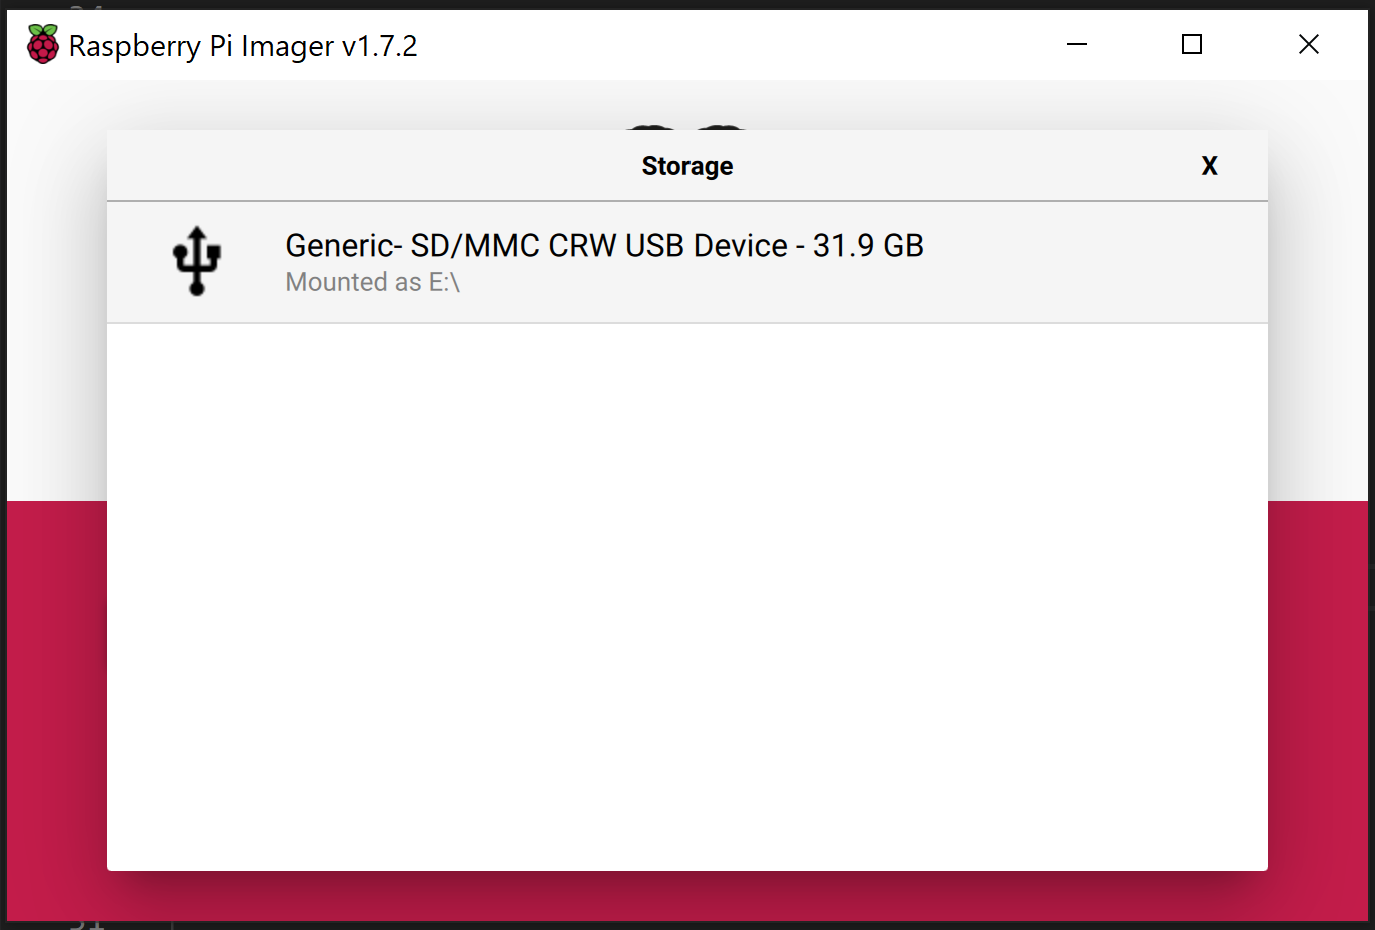
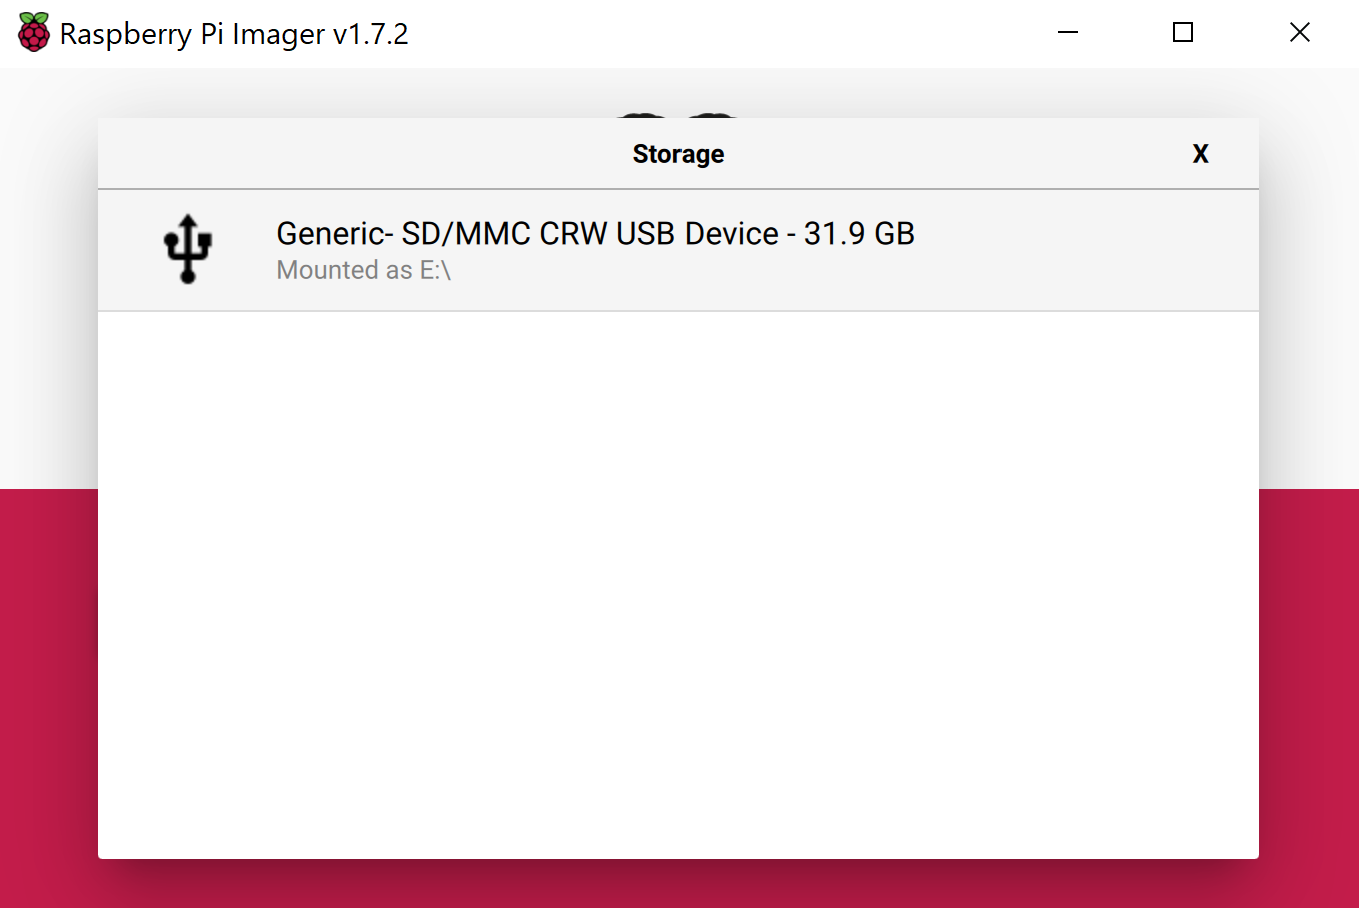
Fix image width

Changed region(s): [[0.0618, 0.1233, 0.9272, 0.9559], [0.0, 0.0, 1.0, 1.0]]

diff --git a/readme.md b/readme.md
@@ -21,8 +21,7 @@ Speech is captured via a USB microphone and run through a .NET framework which c
 4. [Pair of Keyboard and Mouse](https://www.amazon.eg/-/en/HP-CS700-Wireless-Keyboard-Mouse/dp/B07M82KFVB)
    : A basic keyboard and mouse for using as input devices on a Raspberry Pi.
    
-## Download and Install RaspberryPi 4 OS
-
+## Download RaspberryPi 4 OS
 
 1. On your desktop computer, download and install [Raspberry Pi Imager](https://www.raspberrypi.com/software/).
    
@@ -30,7 +29,7 @@ Speech is captured via a USB microphone and run through a .NET framework which c
 
 1. Run Raspberry Pi Imager. The home screen will appear.
 
-    ![RPiIMain.png](assets/RPiIMain.png)
+    <img src="assets/RPiIMain.png" width="400">
 
 2. Select **'CHOOSE STORAGE'**.
 
@@ -38,33 +37,33 @@ Speech is captured via a USB microphone and run through a .NET framework which c
   
 4. Select the connected microSD card as your storage device.
 
-    ![rpisd.png](assets/rpisd.png)
+    <img src="assets/rpisd.png" width="400">
     
 5. On the home screen, select **'CHOOSE OS'**.
    
-    ![rpchooseos.png](assets/rpchooseos.png)
+    <img src="assets/rpchooseos.png" width="400">
 
 6. Select in this order: **'Other general-purpose OS'** > **'Ubuntu'** > **'Ubuntu Desktop 22.04 LTS (RPi 4/400)'**
 
-    ![rposelection.png](assets/rposselection.PNG)
+    <img src="assets/rpiotheros.png" width="400">
+    <img src="assets/rpubuntu.png" width="400">
+    <img src="assets/ubuntu22.png" width="400">
 
     > Note: Although Raspbian does come in a 64bit version, Ubuntu has better support for the architecture and available software.
 
-1. On the home screen, select **'WRITE'**.
+7. On the home screen, select **'WRITE'**.
 
-    ![rpwrite.png](assets/rpwrite.PNG)
+    <img src="assets/rpwrite.png" width="400">
 
-1. A loading bar will appear.  
+8. A loading bar will appear.  
 
-    ![rpiwriting.png](assets/rpiwriting.png)
+    <img src="assets/rpiwriting.png" width="400">
 
     > NOTE: The Writing may take a few minutes to an hour to complete.
 
-1. Safely eject the SD card and insert it into the Raspberry Pi. 
+9. Safely eject the SD card and insert it into the Raspberry Pi. 
  
-    ![microsd.png](assets/microsd.png)
-
-
+    <img src="assets/microsd.png" width="400">
 
 ## Setting up the RaspberryPi 4 and Power On
 ![hdmidisplay.png](assets/hdmidisplay.png)
